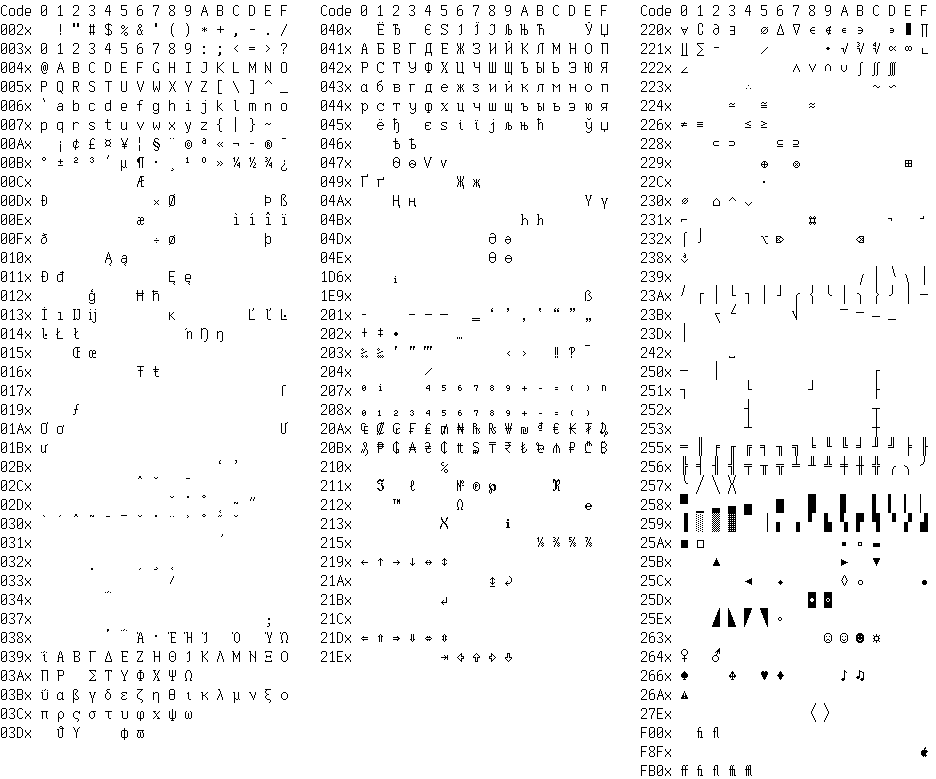
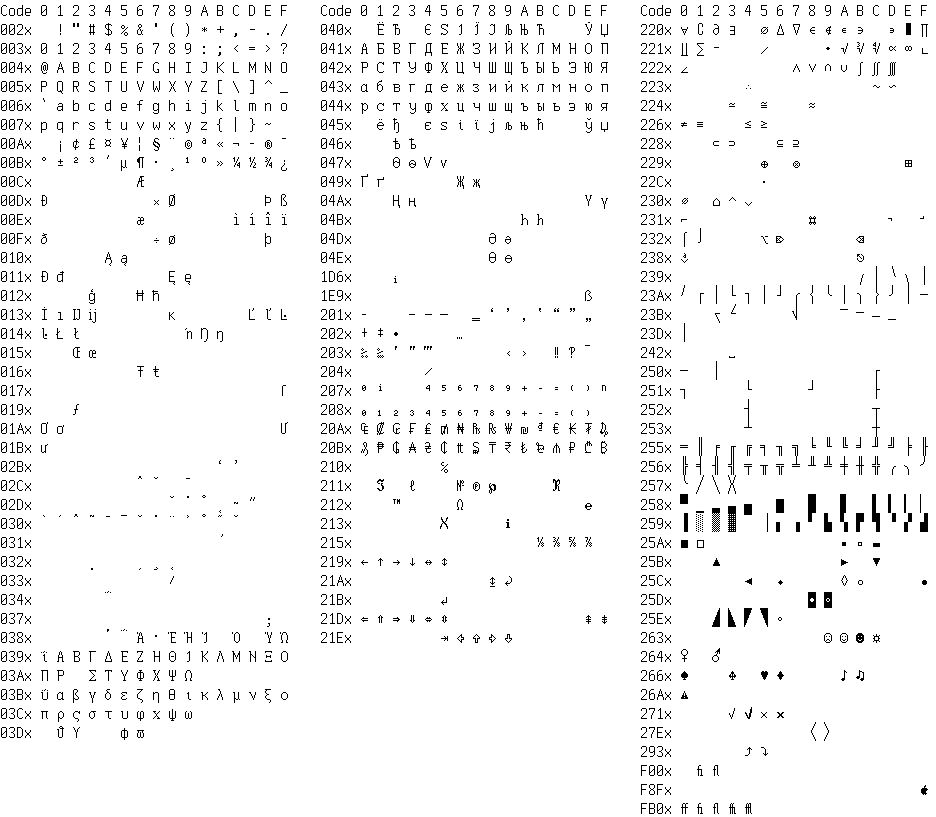
v1.5

diff --git a/export.js b/export.js
@@ -135,10 +135,9 @@ writeFileSync('./Example.png', getImage([
     '–—―‘’‚“”„†‡•…‰‹›⁄₫€№™Ω∂∆∏∑√∞∫∬∭≈≉≃≅≠≤≥◊\uF8FFﬁﬂ½¼¾⅛⅜⅝⅞∕⌐¬≡₣₤₧℅ℓ℮∟‗⌀∈∉∼∽',
     '⁰¹²³⁴⁵⁶⁷⁸⁹ⁱ⁺⁻⁼⁽⁾ⁿ₀₁₂₃₄₅₆₇₈₉ᵢ₊₋₌₍₎;‾ˉ‽℗ﬀﬁﬂﬃﬄǺǻǼǽǾǿȘșȚțẄẅẀẁẂẃẄẅỲỳẞϖℵℑℜ℘ϑϕ∝∇−',
     '☹☺☻♥♦♣♠•◘○◙♂♀♪♫☼►◄↕‼¶§▬↨↑↓→←∟↔▲▼⌂⇕⇑⇓⇒⇐⇔$£¥₡₦₩₪₫€₭₮₱₲₴₵₸₹₺₼₽₾₿₠₢₥₨₯₰₳₶₷₻',
-    '⏐⎯▂▚▆▎▊▘▗▀▄▝▖║│═─◢◣◢╭─╮╔╦╗┌┬┐╒╤╕╓╥╖⎡⎧⎛ ⎞⎫⎤⌠⎧╲N╱⎲──⌝  ⎲─⌝⌫∠⌦⊗⊕∅⊂⊃⊄⊅⊆⊇√∛⟨ƒ⟩',
-    '⌠│□▫○◦▐▬▌▛▜▞ ░░▒▒◥◤◥├─┤╠╬╣├┼┤╞╪╡╟╫╢⎢⎨⎜ ⎟⎬⎥⎮⎪W╳E⎲╲ ┌── ⟩ ∧∨∩∪ϒ∴∀∃∄∍∊∋∌∁∐∎',
-    '⌡⎷■▪●•∙··⋅◆▙▟▓▓██◢◣◢╰─╯╚╩╝└┴┘╘╧╛╙╨╜⎣⎩⎝ ⎠⎭⎦⌡⎨╱S╲⎳ ⟩⎷aᵢ⎳─⌟▍▃▔▁▏▕↵⎺⎻⎼⎽↩␣⇥⎀⚠ℹ',
-    //TODO: '✓✔✕✖ ⇞⇟🡤🡦⤴⤵⎋',
+    '⏐⎯▂▚▆▎▊▘▗▀▄▝▖║│═─◢◣◢╭─╮╔╦╗┌┬┐╒╤╕╓╥╖⎡⎧⎛ ⎞⎫⎤⌠⎧╲N╱⎲──⌝  ⎲─⌝⌫∠⌦⊗⊕∅⊂⊃⊄⊅⊆⊇√∛∜⟨ƒ⟩',
+    '⌠│□▫○◦▐▬▌▛▜▞ ░░▒▒◥◤◥├─┤╠╬╣├┼┤╞╪╡╟╫╢⎢⎨⎜ ⎟⎬⎥⎮⎪W╳E⎲╲ ┌── ⟩ ∧∨∩∪ϒ∴∀∃∄∍∊∋∌∁∐∎⎋⇞⇟⤴⤵',
+    '⌡⎷■▪●•∙··⋅◆▙▟▓▓██◢◣◢╰─╯╚╩╝└┴┘╘╧╛╙╨╜⎣⎩⎝ ⎠⎭⎦⌡⎨╱S╲⎳ ⟩⎷aᵢ⎳─⌟▍▃▔▁▏▕↵⎺⎻⎼⎽↩␣⇥⎀⚠ℹ✓✔✕✖',
     '"Neutral", \'Neutral\', “English”, ‘English’, „German“, ‚German‘, «French», ‹French›',
     '―――― Em—Dash, En–Dash, z₁=10-x+y²*2π, hy‐phen‐ate, мʼята, oʻzbek, ´acute, ˝double',
     '⇧⌥⌘⊞ ⇦⇧⇨⇩⌃⌄ ƒ′, ƒ″, ¼, ½, ¾″ ‴ ÔÖŌÕ ŮÚŰÙ ŠŞŻŽŹ iìíîï ˆ ˇ ˘ ˙ ˚ ˛ ˜ ‛˝ ̀ ́ ̃ ̉ ̣ ΄ ΅ ·',
